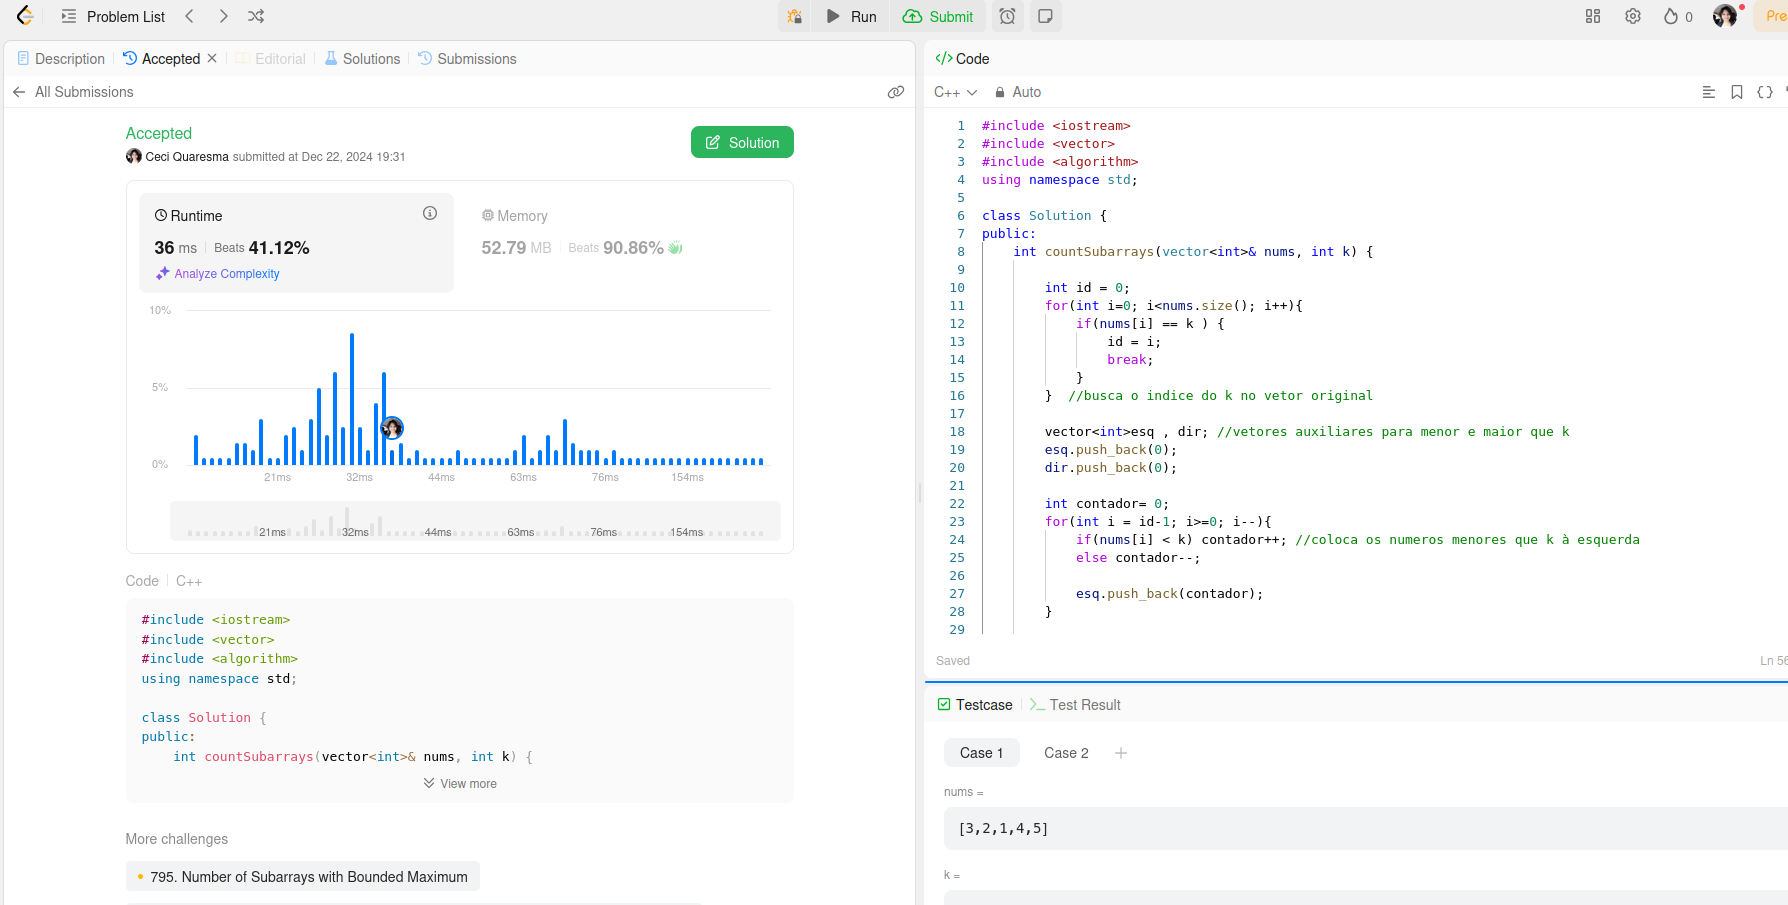
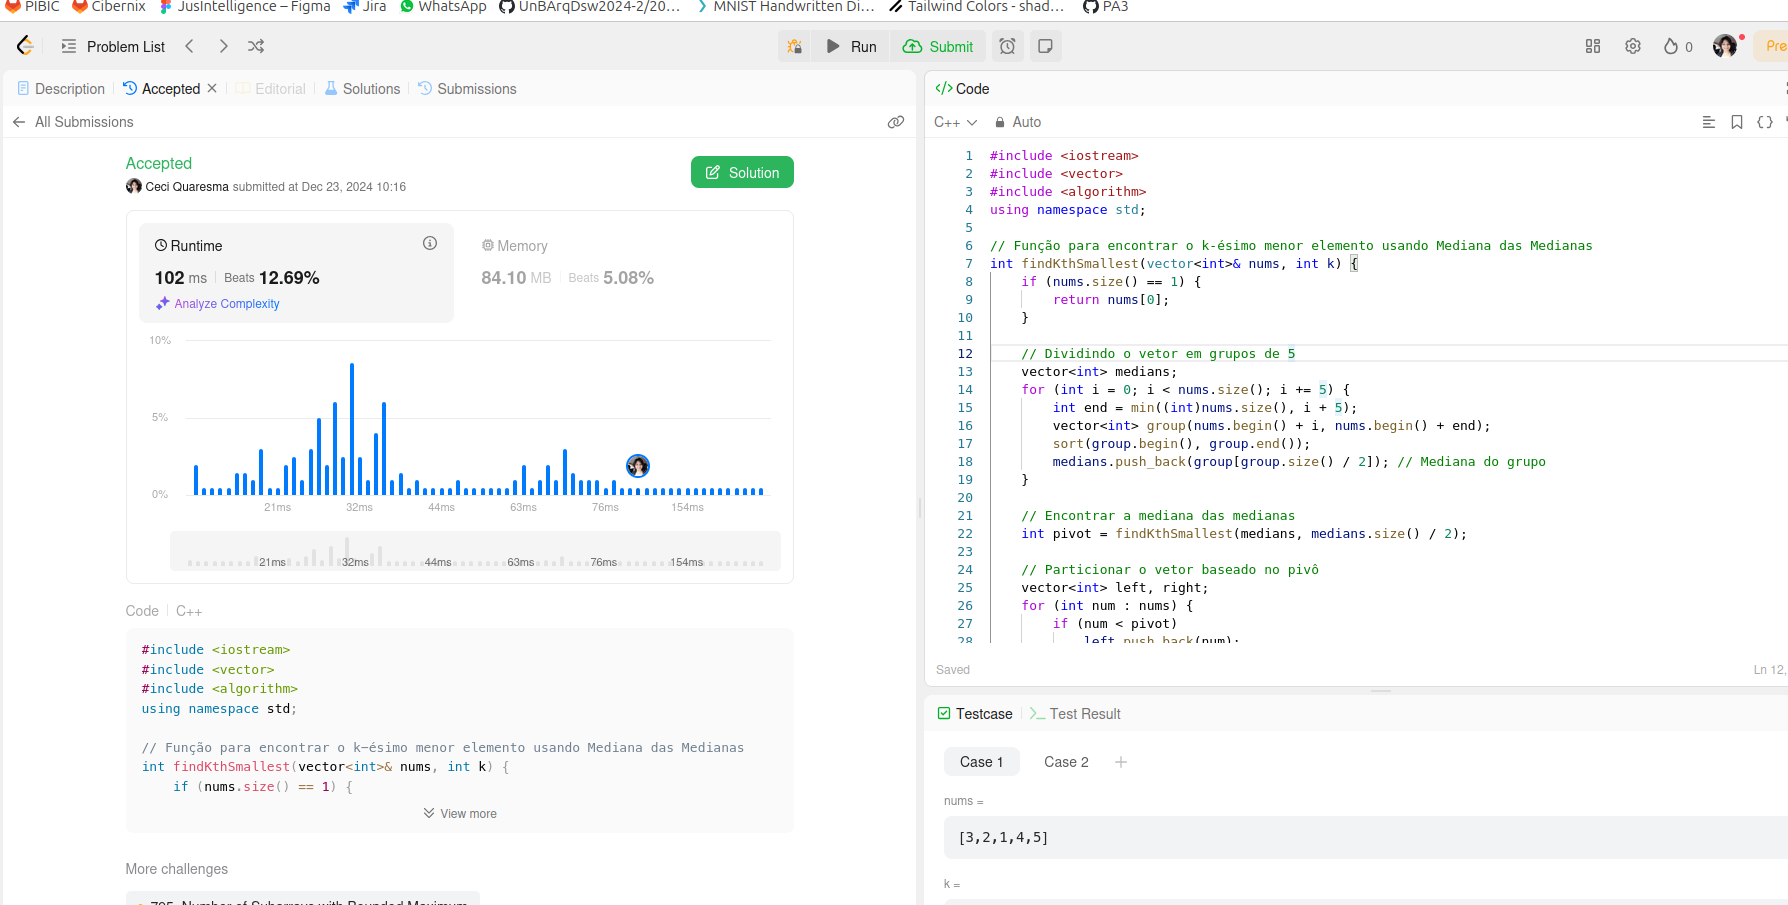
alteracoes subarray

diff --git a/subarraysK/subarrays.cpp b/subarraysK/subarrays.cpp
@@ -3,54 +3,99 @@
 #include <algorithm>
 using namespace std;
 
+// Função para encontrar o k-ésimo menor elemento usando Mediana das Medianas
+int findKthSmallest(vector<int>& nums, int k) {
+    if (nums.size() == 1) {
+        return nums[0];
+    }
+
+    // Dividindo o vetor em grupos de 5
+    vector<int> medianas;
+    for (int i = 0; i < nums.size(); i += 5) {
+        int end = min((int)nums.size(), i + 5);
+        vector<int> conj5(nums.begin() + i, nums.begin() + end);
+        sort(conj5.begin(), conj5.end());
+        medianas.push_back(conj5[conj5.size() / 2]); // Mediana do grupo
+    }
+
+    // Encontrar a mediana das medianas
+    int pivo = findKthSmallest(medianas, medianas.size() / 2);
+
+    // Particionar o vetor baseado no pivô
+    vector<int> esq, dir;
+    for (int num : nums) {
+        if (num < pivo)
+            esq.push_back(num);
+        else if (num > pivo)
+            dir.push_back(num);
+    }
+
+    int contagemPivo = nums.size() - esq.size() - dir.size();
+    if (k < esq.size())
+        return findKthSmallest(esq, k);
+    else if (k < esq.size() + contagemPivo)
+        return pivo;
+    else
+        return findKthSmallest(dir, k - esq.size() - contagemPivo);
+}
+
+// Função principal para contar subarrays
 class Solution {
 public:
     int countSubarrays(vector<int>& nums, int k) {
-        
         int id = 0;
-        for(int i=0; i<nums.size(); i++){
-            if(nums[i] == k ) {
+        for (int i = 0; i < nums.size(); i++) {
+            if (nums[i] == k) {
                 id = i;
                 break;
             }
-        }  //busca o indice do k no vetor original
-        
-        vector<int>esq , dir; //vetores auxiliares para menor e maior que k
+        }
+
+        // Vetores auxiliares
+        vector<int> esq, dir;
         esq.push_back(0);
         dir.push_back(0);
-        
-        int contador= 0;
-        for(int i = id-1; i>=0; i--){
-            if(nums[i] < k) contador++; //coloca os numeros menores que k à esquerda
-            else contador--;
-            
+
+        // Construção do vetor esq
+        int contador = 0;
+        for (int i = id - 1; i >= 0; i--) {
+            if (nums[i] < k)
+                contador++;
+            else
+                contador--;
             esq.push_back(contador);
         }
-        
-        contador= 0;
-        for(int i = id+1; i<nums.size(); i++){
-            if(nums[i] > k) contador++; //maiores que k à direita
-            else contador--;
-            
+
+        // Construção do vetor dir
+        contador = 0;
+        for (int i = id + 1; i < nums.size(); i++) {
+            if (nums[i] > k)
+                contador++;
+            else
+                contador--;
             dir.push_back(contador);
         }
-        
+
+        // Encontra a mediana de esq e dir usando Mediana das Medianas
+        findKthSmallest(esq, esq.size() / 2);
+        findKthSmallest(dir, dir.size() / 2);
+
+        // Ordena os vetores com std::sort
         sort(esq.begin(), esq.end());
         sort(dir.begin(), dir.end());
 
-        int ans  = 0;
-        for(auto i : dir){
-            vector<int>::iterator lower, upper;
-            lower = lower_bound(esq.begin(), esq.end(), i); //busca binária
-            upper = upper_bound(esq.begin(), esq.end(), i);            
+        // Contar subarrays válidos
+        int ans = 0;
+        for (auto i : dir) {
+            auto lower = lower_bound(esq.begin(), esq.end(), i);
+            auto upper = upper_bound(esq.begin(), esq.end(), i);
             ans += upper - lower;
-            
-            
-            lower = lower_bound(esq.begin(), esq.end(), i-1);
-            upper = upper_bound(esq.begin(), esq.end(), i-1);            
+
+            lower = lower_bound(esq.begin(), esq.end(), i - 1);
+            upper = upper_bound(esq.begin(), esq.end(), i - 1);
             ans += upper - lower;
         }
-        return ans;        
+
+        return ans;
     }
-    
 };
